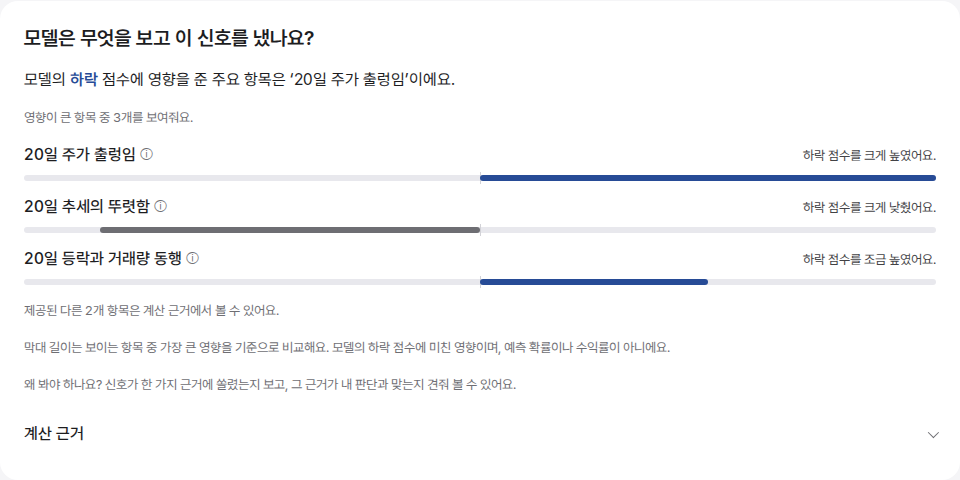
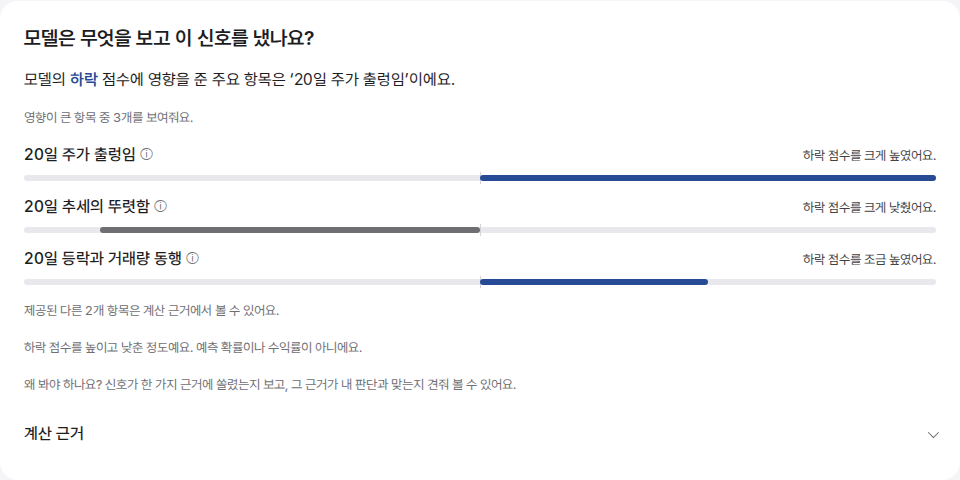
fix(web): simplify contribution guidance and prevent mobile name wrapping

Changed region(s): [[0.0312, 0.6875, 0.6875, 0.75]]

diff --git a/frontend/app/components/insight-cards.tsx b/frontend/app/components/insight-cards.tsx
@@ -903,12 +903,12 @@ function ContributionPanel({
           const color = !up || target === SIGNAL_WORD.flat ? "var(--color-muted)" : target === SIGNAL_WORD.down ? "var(--color-down)" : "var(--color-up)";
           return (
             <li key={feature.name} className="flex flex-col gap-2" data-model-feature={feature.name}>
-              <div className="flex items-baseline gap-2">
+              <div className="flex flex-wrap items-baseline gap-x-2 gap-y-1">
                 <MarketDetail
                   hover
                   title={`${feature.label_ko} 설명`}
-                  className="-my-3 inline-flex min-w-0"
-                  label={<><span className="whitespace-normal text-left text-sm font-medium text-ink">{feature.label_ko}</span><span aria-hidden className="px-1 text-muted">ⓘ</span><span className="sr-only"> 설명 보기</span></>}
+                  className="-my-3 inline-flex flex-none"
+                  label={<><span className="whitespace-nowrap text-left text-sm font-medium text-ink">{feature.label_ko}</span><span aria-hidden className="px-1 text-muted">ⓘ</span><span className="sr-only"> 설명 보기</span></>}
                 >
                   <p className="m-0">{featureDescription(feature.name)}</p>
                 </MarketDetail>
@@ -932,7 +932,7 @@ function ContributionPanel({
       {hiddenCount > 0 && (
         <p className="m-0 text-xs text-muted">제공된 다른 {hiddenCount}개 항목은 계산 근거에서 볼 수 있어요.</p>
       )}
-      <p className="m-0 text-xs text-muted">막대 길이는 보이는 항목 중 가장 큰 영향을 기준으로 비교해요. 모델의 {target} 점수에 미친 영향이며, 예측 확률이나 수익률이 아니에요.</p>
+      <p className="m-0 text-xs text-muted">{target} 점수를 높이고 낮춘 정도예요. 예측 확률이나 수익률이 아니에요.</p>
       <Why>{why}</Why>
       <details className="disclosure">
         <summary>계산 근거</summary>
@@ -946,7 +946,7 @@ function ContributionPanel({
             </div>
           ))}
         </dl>
-        <p className="m-0 text-xs text-muted">영향 비중은 각 항목의 영향 크기를 전체 피처의 영향 크기 합과 비교한 값이에요. 모델 기준값은 제외하고, 보이지 않는 항목도 포함해요. 일부 항목만 보여줘 합이 100%가 아닐 수 있어요. 예측 확률이나 점수의 증가율이 아니에요.</p>
+        <p className="m-0 text-xs text-muted">점수를 높이든 낮추든, 각 항목이 점수를 바꾼 크기를 모두 더해 100%로 봐요. 영향 비중은 그중 해당 항목이 차지하는 몫이에요. 여기 없는 항목도 함께 계산해서, 보이는 비중의 합은 100%가 아닐 수 있어요. 점수를 바꾼 항목은 영향 비중이 10% 이상이면 ‘크게’, 그보다 작으면 ‘조금’이라고 써요. 막대 길이는 보이는 항목 중 가장 큰 값을 기준으로 비교해요. 예측 확률이나 점수의 증가율은 아니에요.</p>
         </div>
       </details>
     </>

diff --git a/frontend/tests/e2e/chart-preview.spec.ts b/frontend/tests/e2e/chart-preview.spec.ts
@@ -88,7 +88,7 @@ test("feature shares use the whole-model denominator and raw values are collapse
   await expect(model.locator("details.disclosure")).not.toHaveAttribute("open", "");
   await model.locator("summary", { hasText: "계산 근거" }).click();
   await expect(model.locator("dd").first()).toContainText(contributionPercent(features[0].contribution, 1));
-  await expect(model).toContainText("전체 피처의 영향 크기 합");
+  await expect(model).toContainText("각 항목이 점수를 바꾼 크기를 모두 더해 100%");
   await expect(model.locator("[data-model-feature]")).not.toContainText(["영향 비중", "관측값", "관측값"]);
   await page.setViewportSize({ width: 390, height: 844 });
   expect(await page.evaluate(() => document.documentElement.scrollWidth <= innerWidth)).toBe(true);
@@ -287,4 +287,31 @@ test.describe("feature explanation touch", () => {
     await page.getByRole("tab", { name: "모델이 본 이유" }).tap();
     await expect(popup).toHaveCount(0);
   });
+});
+
+
+test("mobile feature names stay on one line and detailed copy explains size words", async ({ page }) => {
+  const selected = structuredClone(rows);
+  for (const row of selected) {
+    row.payload.inference.contribution_space = "class_0_raw_margin";
+    row.payload.inference.contribution_abs_sum = 1;
+    row.payload.inference.features[0] = { ...row.payload.inference.features[0], name: "cord_20", contribution: -.12 };
+  }
+  await page.route("**/rest/v1/latest_chart_signal_snapshots?**", route => route.fulfill({ json: selected }));
+  await page.goto("/stocks/005930");
+  await page.getByRole("tab", { name: "모델이 본 이유" }).click();
+  const panel = page.getByRole("tabpanel");
+  const item = panel.locator('[data-model-feature="cord_20"]');
+  const label = item.getByRole("button", { name: "20일 등락과 거래량 동행 설명 보기" }).locator("span").first();
+  for (const width of [320, 390, 430]) {
+    await page.setViewportSize({ width, height: 844 });
+    const dimensions = await label.evaluate(node => ({ height: node.getBoundingClientRect().height, lineHeight: parseFloat(getComputedStyle(node).lineHeight) }));
+    expect(dimensions.height).toBeLessThanOrEqual(dimensions.lineHeight + 1);
+    expect(await page.evaluate(() => document.documentElement.scrollWidth <= innerWidth + 1)).toBe(true);
+  }
+  await expect(panel.getByText("하락 점수를 높이고 낮춘 정도예요. 예측 확률이나 수익률이 아니에요.", { exact: true })).toBeVisible();
+  await panel.getByText("계산 근거", { exact: true }).click();
+  await expect(panel).toContainText("10% 이상이면 ‘크게’, 그보다 작으면 ‘조금’");
+  await expect(panel).toContainText("각 항목이 점수를 바꾼 크기를 모두 더해 100%");
+  await expect(panel.locator("dd").first()).toHaveText("낮춤, 12%");
 });

diff --git a/docs/qa/2026-10-27-model-reasons/README.md b/docs/qa/2026-10-27-model-reasons/README.md
@@ -24,13 +24,16 @@
 
 ## 표시와 계산
 
-- 기존 항목명과 행 배치, 상대 막대 길이를 유지한다. 본문 오른쪽에는 '하락 점수를 크게/조금 높였어요'를 표시한다. 전체 피처 절댓값 합의 10% 이상이면 크게, 미만이면 조금이다. 분모가 없거나 0이면 방향만 표시한다.
+- 기존 항목명과 상대 막대 길이를 유지한다. 모바일 이름은 한 줄로 표시하며, 한 행에 함께 들어가지 않는 영향 문구만 다음 줄 오른쪽으로 보낸다. 본문 오른쪽에는 '하락 점수를 크게/조금 높였어요'를 표시한다. 전체 피처 절댓값 합의 10% 이상이면 크게, 미만이면 조금이다. 분모가 없거나 0이면 방향만 표시한다.
 - 설명은 본문에서 제거하고 다른 UI와 같은 공통 ⓘ 팝업으로 옮긴다. 모델 피처만 마우스 호버를 허용하며 클릭/터치/Enter도 지원한다. 설명 위로 이동해 읽을 수 있고 Escape/바깥 클릭으로 닫을 수 있다. 다른 용어 설명의 클릭 전용 동작은 바꾸지 않는다.
 - '계산 근거'는 기존 두 열 표다. '+0.1200' 같은 내부 원점수 대신 '높임, 12%' / '낮춤, 10%'처럼 방향과 영향 비중을 표시한다. 원점수를 단순히 100배 해 %로 바꾸는 것이 아니다.
 - 영향 비중 = 이번 대상 클래스의 해당 기여값 절댓값 / 전체 피처 기여값 절댓값 합 × 100. 보이지 않는 항목을 포함하고 모델 기준값은 제외한다. 확률이나 점수 증가율이 아니다.
 - 소수 첫째 자리까지 반올림하되 끝의 0은 생략한다. 양수 비중이 0.1% 미만이면 '0.1% 미만', 전체 합 누락/0이면 '미제공'으로 표시한다.
 - 본문은 최대 3개, 계산 근거는 서버가 제공한 상위 최대 5개다. 전체 모델 입력 목록으로 부르지 않으며, 비중 합이 100%가 아닐 수 있음을 안내한다.
 - 관측값과 원래 계산식은 화면에 표시하지 않는다. 모델 입력/기여값과 서버 설명 메타데이터는 변경하지 않는다.
+
+- 막대 아래에는 기존처럼 대상 점수를 높이고 낮춘 정도이며 예측 확률이나 수익률이 아니라는 짧은 안내만 둔다.
+- 계산 근거 아래에는 각 항목이 점수를 바꾼 크기를 모두 합쳐 100%로 비교한다는 쉬운 설명과, 영향 비중 10% 이상은 크게/미만은 조금이라는 기준을 둔다. 막대 길이 비교 기준도 여기서 안내한다.
 
 ## 설명 사전
 
@@ -43,6 +46,6 @@
 
 - `corepack pnpm test:unit`: 176개 통과. 170개 설명 누락/기간 치환/금지 표현, 전체 분모, 양/음/0, 분모 누락/0, 원점수와 비중의 차이, 작은 비중 표기를 검사한다.
 - `corepack pnpm lint`, `corepack pnpm build`: 통과.
-- 관련 Playwright: 모델 근거 14개와 기존 공통 설명 3개, 17개 통과. 호버 열기/팝업 유지/닫기, Escape와 Enter, 터치와 화면 경계, 기존 클릭 전용 동작, 오른쪽 정렬, 상대 막대, 상세 영향 비중을 확인한다.
+- 관련 Playwright: 모델 근거 15개 통과, 기존 공통 설명 3개도 이전 변경에서 통과했다(공통 팝업 코드는 이번에 변경하지 않음). 호버 열기/팝업 유지/닫기, Escape와 Enter, 터치와 화면 경계, 기존 클릭 전용 동작, 오른쪽 정렬, 상대 막대, 상세 영향 비중을 확인한다.
 - 같은 합성 응답으로 기존 전후 이미지 8장을 유지하고 변경 후 4장을 갱신한다. ⓘ 팝업 이미지도 별도로 추가한다.
 - 실제 사용자 이해도 평가와 실제 iOS/Android 기기 검증은 하지 않았다. Python, 모델/pack, DB, 운영 설정은 변경하지 않았다.

diff --git a/frontend/DESIGN.md b/frontend/DESIGN.md
@@ -76,13 +76,14 @@
 
 ### 모델 근거의 설명과 영향 비중 (2026-10-27, #328, #420 사용자 합의)
 
-- 피처 이름은 기존 사전을 유지한다. 쉬운 설명은 `featureLabels.ts`에 모으고 공통 ⓘ(`MarketDetail`)에서만 보여준다. 본문에 설명이나 관측값을 늘어놓지 않는다.
+- 피처 이름은 기존 사전을 유지하며 한 줄로 표시한다. 모바일에서 오른쪽 영향 문구와 함께 들어가지 않으면 영향 문구만 다음 줄 오른쪽으로 보낸다. 쉬운 설명은 `featureLabels.ts`에 모으고 공통 ⓘ(`MarketDetail`)에서만 보여준다. 본문에 설명이나 관측값을 늘어놓지 않는다.
 - 피처 설명은 사용자 요청에 따른 호버 예외다. 마우스로 ⓘ가 붙은 이름에 올리면 열고 설명 위로 이동해도 유지한다. 클릭/터치/Enter로도 열고, 바깥 클릭과 Escape로 닫는다. 다른 용어 설명은 기존 클릭 동작을 유지한다.
 - 본문 오른쪽 문구는 기존처럼 '하락 점수를 크게/조금 높였어요'다. '크게'는 전체 피처 절댓값 합의 10% 이상, '조금'은 미만이다. 합이 없거나 0이면 크기 말 없이 방향만 쓴다.
 - '계산 근거'는 기존 두 열 표를 유지하고 원래 +/− 기여값 대신 '높임, 12%' / '낮춤, 10%'처럼 방향과 영향 비중을 보여준다.
 - 영향 비중 = 해당 기여값 절댓값 / 대상 클래스의 전체 피처 기여값 절댓값 합. 모델 기준값은 제외하며, 보이지 않는 항목도 분모에 포함한다. 전체 합이 없거나 0이면 비중은 미제공으로 표시한다.
 - 영향 비중은 소수 첫째 자리까지 표시하되 끝의 0은 뺀다. 양수인데 0.1% 미만이면 '0.1% 미만'으로 표시해 정확한 0과 구분한다. 확률 변화나 점수 증가율로 설명하지 않는다.
 - 막대는 기존처럼 가운데 0, 왼쪽 낮춤, 오른쪽 높임이며 보이는 항목 중 가장 큰 절댓값 기준이다. 영향 비중과 막대의 비교 기준이 다름을 안내한다. 색은 기존 규칙을 유지한다.
+- 막대 아래에는 대상 점수를 높이고 낮춘 정도이며 예측 확률이나 수익률이 아니라는 짧은 안내를 유지한다. 크기 말의 10% 경계, 영향 비중의 쉬운 설명과 막대 비교 기준은 계산 근거 아래에 둔다.
 - 목록 위에 일부 항목만 표시함을 안내하고, 계산 근거에서 비중 합이 100%가 아닐 수 있음을 밝힌다. 전체 모델 입력 목록이라고 부르지 않는다.
 
 ### 극 이름 규칙 (2026-10-26)
